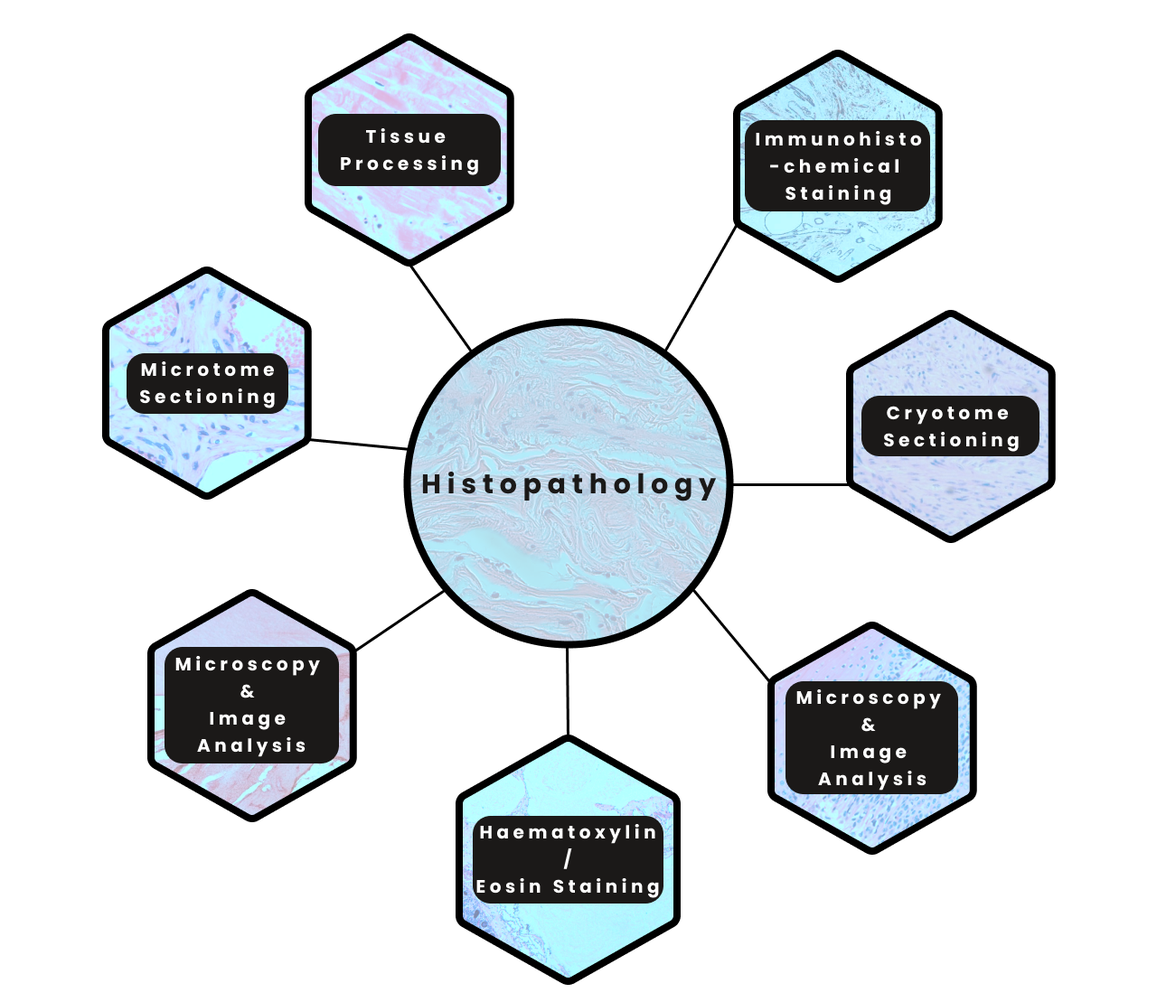
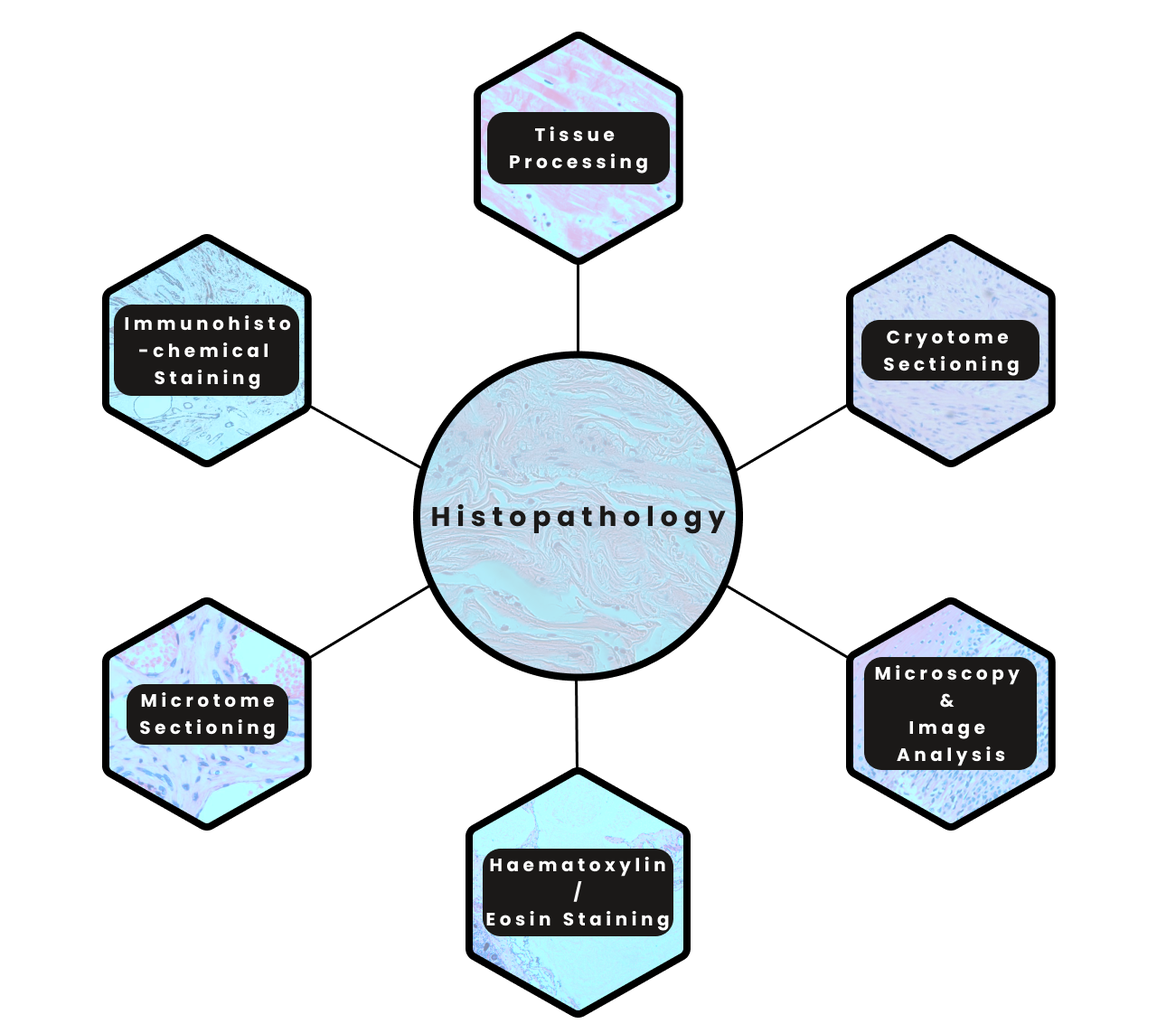
I have done all changes

diff --git a/src/components/services/service-details/bio-fluids-details-area.jsx b/src/components/services/service-details/bio-fluids-details-area.jsx
@@ -27,19 +27,17 @@ const BiofluidsDetailsArea = () => {
                 <p>
                   <b>2.Serum and Plasma </b>
                   Discover a vast repository of valuable biological resources at our state-of-the-art biobank, where a comprehensive collection of serum and plasma biosamples awaits researchers and scientists. Our biobank houses an extensive range of meticulously catalogued serum and plasma samples, sourced ethically and maintained under stringent quality controls.
-
-                  Researchers from various fields can access this treasure trove of biosamples, each representing a snapshot of human health and physiology. From healthy individuals to diverse disease conditions, our biobank &apos;s serum and plasma samples offer insights into biomarker discovery, disease progression, and therapeutic intervention.
-
-                  Our commitment to scientific advancement is evident in the careful curation of biosamples, ensuring accurate annotation of relevant clinical data. Whether investigating cardiovascular disorders, infectious diseases, oncology, or beyond, our biobank serves as a reliable resource for cutting-edge research endeavours. Accelerate your research with confidence, as our biobank stands ready to empower breakthroughs through the availability of high-quality serum and plasma biosamples.
-
                 </p>
-
+                <p>Researchers from various fields can access this treasure trove of biosamples, each representing a snapshot of human health and physiology. From healthy individuals to diverse disease conditions, our biobank &apos;s serum and plasma samples offer insights into biomarker discovery, disease progression, and therapeutic intervention.</p>
+                <p>Our commitment to scientific advancement is evident in the careful curation of biosamples, ensuring accurate annotation of relevant clinical data. Whether investigating cardiovascular disorders, infectious diseases, oncology, or beyond, our biobank serves as a reliable resource for cutting-edge research endeavours. Accelerate your research with confidence, as our biobank stands ready to empower breakthroughs through the availability of high-quality serum and plasma biosamples.</p>
+                
                 <div className="image-Contetn mb-30">
                   <img src="/assets/img/banner/bio-fluids-02.jpg" style={{ width: '100%' }} alt="bio banner" />
                 </div>
 
                 <p>
-                  <b>3.Buffy Coat Samples </b> Obtain human buffy Buffy Coat Samples for research from Diseased and healthy patients.
+                  <b>3.Buffy Coat Samples </b> 
+                  Obtain human buffy Buffy Coat Samples for research from Diseased and healthy patients.
                   Easy, streamlined procurement of depot and prospectively collected buffy coats
                   Through CBRS researchers have access to a global network of providers and patients for stored and prospectively collected buffy coats, with and without matched sets. Our extensive provider network provides access to a large inventory of criterion-specific buffy coats from both Diseased and healthy patients.
                   Our network also enables large-scale, prospective collections of high-quality matched sample sets including buffy coats. Each matched specimen set is supplied with the patient&apos;s baseline clinical data and de-identified pathology information.
@@ -47,12 +45,11 @@ const BiofluidsDetailsArea = () => {
 
                 <p>
                   <b>4.Swab Samples </b>
-                  Embark on groundbreaking research with unparalleled access to a diverse array of swab biosamples, meticulously preserved and readily available within our advanced biobank. These swab biosamples, carefully collected and stored under optimal conditions, provide an invaluable resource for researchers and scientists delving into a multitude of fields.
-                  CBRS houses an expansive collection of swab samples, ranging from nasopharyngeal and oral swabs to skin and microbial samples. Each swab specimen is a potential window into the intricate world of human health, genetics, and microbiota. With a commitment to ethical sourcing and rigorous quality control, our swab biosamples maintain their integrity and scientific value.
-                  Researchers investigating infectious diseases, microbiome dynamics, genetic variations, and more can confidently explore our biobank&apos;s swab samples. These specimens are accompanied by comprehensive clinical data, enhancing the depth and relevance of your research findings.
-                  Accelerate your discoveries with the assurance of accessing a comprehensive repository of swab biosamples at CBRS biobank. Uncover insights that could redefine healthcare, genetics, and beyond, as you leverage our collection to pave the way for transformative scientific breakthroughs.
-
+                  <p>Embark on groundbreaking research with unparalleled access to a diverse array of swab biosamples, meticulously preserved and readily available within our advanced biobank. These swab biosamples, carefully collected and stored under optimal conditions, provide an invaluable resource for researchers and scientists delving into a multitude of fields.</p>
                 </p>
+                <p>CBRS houses an expansive collection of swab samples, ranging from nasopharyngeal and oral swabs to skin and microbial samples. Each swab specimen is a potential window into the intricate world of human health, genetics, and microbiota. With a commitment to ethical sourcing and rigorous quality control, our swab biosamples maintain their integrity and scientific value.</p>
+                <p>Researchers investigating infectious diseases, microbiome dynamics, genetic variations, and more can confidently explore our biobank&apos;s swab samples. These specimens are accompanied by comprehensive clinical data, enhancing the depth and relevance of your research findings.</p>
+                <p>Accelerate your discoveries with the assurance of accessing a comprehensive repository of swab biosamples at CBRS biobank. Uncover insights that could redefine healthcare, genetics, and beyond, as you leverage our collection to pave the way for transformative scientific breakthroughs.</p>
 
                 <p>
                   <b>5.Urine sample </b> We Access fresh and stored human urine samples and data from a diverse, Countrywide patient and provider population.

diff --git a/src/components/services/service-details/tissue-microarrays-details-area.jsx b/src/components/services/service-details/tissue-microarrays-details-area.jsx
@@ -9,16 +9,57 @@ const TissueMicroarrayDetailsArea = () => {
           <div className="row">
             <div className="col-lg-12">
               <div className="tp-srv-process mb-50">
-
                 <p className="mb-20">
-                  CBRS excels in the creation and production of personalized human tissue microarrays (TMA), meticulously designed for the analysis of target expression and biomarkers across a spectrum of tissues, encompassing diseased, adjacent normal, and normal samples. Our adept team possesses an adept understanding of assisting you in the selection of appropriate human biospecimens from our expansive tissue repository. Alternatively, we are capable of aiding you in obtaining a unique human TMA tissue set, carefully tailored to meet the requirements of your specific project. From the inception of the TMA to the execution of both standard and customized IHC and FISH protocols, our professionals adeptly oversee the entire process.
-                  Furthermore, CBRS extends to you the privilege of accessing premium human biospecimens, accompanied by a comprehensive array of clinical outcome data. This addition substantially enhances the depth and precision of your research pursuits, facilitating significant breakthroughs.
+                  The term tissue microarray refers to the innovative practice of relocating multiple tissue sections from conventional histological kerosene blocks so that the tissues of multiple specimens can be viewed on the same slide. Tissue microarrays (TMAs) contain biomolecules such as proteins, carbohydrates, lipids, RNA, or DNA in their preserved state, providing a high-throughput platform for rapid analysis of molecular markers associated with the diagnosis/prognosis of disease or physiological states. TMAs provide a convenient and effective tool for modern molecular pathology with several advantages that include: experimental uniformity, reduction in assay volume/number of slides/workload, freshly cut slides, positive control options, compatibility with automated staining systems, and shelf life of up to one year when stored at 4 °C. TMAs can be used for various applications such as immunohistochemistry kerosene (IHC-P), in situ hybridization (ISH or FISH when using fluorochrome labelled probes), mRNA or miRNA ISH, TUNEL assay, histochemical staining and nucleic acid extraction. Novus Biologicals offers TMAs for normal human, rat, mouse, and primate/monkey tissues, and human TMAs are also available for various cancers, including malignant or metastatic cancers and cancer/normal adjacent tissue. For complete tissue details, H&E-stained images, citations in publications, product reviews, and related products, please refer to the individual online datasheets for the listed products.
                 </p>
-
+                <p>CBRS has expertise in the design & manufacture of custom human tissue microarrays (TMA) for analysis of target and biomarker expression in diseased, adjacent normal and normal tissues. Our team can help you select an appropriate human biospecimen from the list of available tissues or procure a unique human TMA tissue set for your project, fabricate the TMA, and implement various standard and custom IHC and FISH protocols. We can also provide access to high-quality human biospecimens with clinical outcome data.</p>
               </div>
             </div>
           </div>
-
+          <div className="list-of-data mt-50-cs">
+            <div className="inner-data-lsit">
+              <div className="row">
+                <div className="col-12 col-md-4">
+                  <h6>Cancer TMA</h6>
+                  <ul className="lsitof-data">
+                    <li>• Breast</li>
+                    <li>• Colon and Rectum</li>
+                    <li>• Lung</li>
+                    <li>• Stomach</li>
+                    <li>• Head and Neck</li>
+                    <li>• Kidney</li>
+                    <li>• Thyroid</li>
+                    <li>• Melanoma</li>
+                    <li>• Ovary</li>
+                    <li>• Prostate</li>
+                    <li>• Lymphoma</li>
+                    <li>• Bladder</li>
+                    <li>• Brain</li>
+                  </ul>
+                </div>
+                <div className="col-12 col-md-4">
+                  <h6>Custom TMA features</h6>
+                  <ul className="lsitof-data">
+                    <li>• Client - and study-specific human tumor tissue selection</li>
+                    <li>• Inclusion of all desired and appropriate controls</li>
+                    <li>• Extensive clinical history information, including clinical outcome data</li>
+                    <li>• Custom preparation of frozen tissue TMA (OCT human tissues)</li>
+                  </ul>
+                </div>
+                <div className="col-12 col-md-4">
+                  <h6>General TMA Specifications</h6>
+                  <ul className="lsitof-data">
+                    <li>• FFPE human tissues</li>
+                    <li>• Tissue cores 1 - 2 mm</li>
+                    <li>• Multiple cores per case</li>
+                    <li>• TMA map</li>
+                    <li>• TMA tissue slides</li>
+                    <li>• H&E slides/images</li>
+                  </ul>
+                </div>
+              </div>
+            </div>
+          </div>
         </div>
       </section>
     </>

diff --git a/src/components/services/service-details/stem-and-immune-cells-details-area.jsx b/src/components/services/service-details/stem-and-immune-cells-details-area.jsx
@@ -17,20 +17,19 @@ const StemAndImmuneCellsDetailsArea = () => {
 
                                 <p className="mb-40">
                                     <b>Leucopaks, non-mobilized :</b>
-                                    You can access fresh and cryopreserved leukoplakias from healthy and diseased donors for research Gain access to a growing network of providers of fresh and cryopreserved leukoplakias from a huge collective donor pool and a variety of phenotypes. Choose from a list of donor characteristics such as blood type, HLA type, body mass index (BMI), gender, age, race, ethnicity, smoking (tobacco, vape, or THC), or simply select a standard leukoplakia. You also have the option to specify guidelines for comments and exclusion criteria. Each donor will be assessed for medication, lifestyle, and medical history and tested for at least HBV, HCV, and HIV, as well as serology testing, with the option to test for an expanded panel of infectious diseases.
+                                    Fresh and cryopreserved leukoplakia’s from healthy and sick donors are available for research. Access a growing network of live and cryopreserved leukoplakia’s suppliers from a vast pool of donors and a range of phenotypes.
+                                    Pick a standard leukoplakia from a list of donor traits such blood type, HLA type, body mass index (BMI), gender, age, race, and ethnicity. You can also select a donor based on their blood type, smoking habits (tobacco, e-cigarettes, or THC), or your blood type.
+                                    We can also define the conditions for comments and the exclusion standards. Each donor will undergo a medical history check, medication review, and serology testing in addition to testing for at least HBV, HCV, and HIV. There will also be an option to test for a wider range of infectious illnesses.
                                 </p>
 
                                 <p>
                                     <b>Mobilized leucopaks :</b>
-                                    You can access fresh and cryopreserved mobilized leukopaks from healthy and diseased donors for research.
-                                    Gain access to a growing network of providers for fresh and cryopreserved mobilized leukopaks from a large collective donor pool and a variety of phenotypes. Depending on the specific mobilization protocol, healthy donors can be mobilized daily for one to five days, followed by a single collection of mononuclear cells — plus an option for a second-day collection to maximize total cell yield from a single donor. Choose from a list of donor attributes including blood type, HLA type, body mass index (BMI), gender, age, race, ethnicity, and smoking status (tobacco, vape, or THC).
+                                    Fresh and cryopreserved leukoplakias from healthy and sick donors are available for research. Access a growing network of live and cryopreserved leukoplakias suppliers from a vast pool of donors and a range of phenotypes. CBRS  Pick a standard leukoplakia from a list of donor traits such as blood type, HLA type, body mass index (BMI), gender, age, race, and ethnicity. You can also select a donor based on their blood type, smoking habits (tobacco, e-cigarettes, or THC), or blood type. You can also define the conditions for comments and the exclusion standards. Each donor will undergo a medical history check, medication review, serology testing, and testing for at least HBV, HCV, and HIV. There will also be an option to test for a wider range of infectious illnesses.
                                 </p>
 
                                 <p>
                                     <b>Bone marrow whole aspirate :</b>
-                                    A better option for obtaining healthy bone marrow whole aspirate we know that the success of your research may depend on procuring bone marrow from a defined donor profile that provides the best cell phenotype for your application.
-                                    CBRS helps you do this by providing access to our network of donor collection centers in multiple geographic locations with an overall large and diverse healthy donor pool.
-                                    Choose from a list of donor characteristics such as blood type, HLA type, body mass index (BMI), gender, age, race, ethnicity, and smoking (tobacco, vape, or THC). Each donor is screened for medications, lifestyle, and medical history, and tested for HBV, HCV, and HIV at a minimum, as well as serologically tested.
+                                    A better choice for acquiring healthy bone marrow whole aspirate We are aware that obtaining bone marrow from a specific donor profile that offers the optimal cell phenotypic for your application may be essential to the success of your research. By giving you access to our network of donor collection sites across numerous geographic locations with a generally sizable and diverse healthy donor pool, CBRS assists you in doing this. A list of donor traits is available, including blood type, HLA type, body mass index (BMI), gender, age, race, ethnicity, and smoking habits (tobacco, e-cigarettes, or THC). Each donor undergoes a series of tests, including serological, HBV, HCV, and HIV testing, as well as checks for drugs, lifestyle factors, and medical history.
                                 </p>
 
                                 <p>

diff --git a/src/components/services/service-details/tissue-details-area.jsx b/src/components/services/service-details/tissue-details-area.jsx
@@ -32,16 +32,7 @@ const TissueDetailsArea = () => {
 
                                 <p>
                                     <b>Formalin-Fixed Paraffin-Embedded (FFPE) Tissue :</b>
-                                    Access a global repository of FFPE human tissues from Diseased and healthy patients.
-                                    Large, diverse repository of FFPE tissue samples our extensive provider network gives you access to high-quality FFPE tissue blocks from hundreds of repositories around the world, reflecting the sample and patient diversity that modern medical research requires.
-
-                                    Throughout our network, FFPE tissue samples are collected under IRB-approved protocols, using processes to ensure consistency and quality. All samples are collected in full compliance with regulatory standards and best practice guidelines.
-                                    Explore our inventory of archived FFPE blocks released for research through consent waiver. These tissue samples are highly versatile and support research in areas such as oncology, hematology, and immunology— - especially for replication, validation, and immunohisto chemical (IHC) testing. Whether you are conducting academic research, drug discovery, or diagnostic development, we can provide you with the appropriate FFPE blocks.
-                                </p>
-
-                                <p>
-                                    <b>Tissue Microarrays :</b>
-                                    Large, diverse inventory of microarray tissue samples access a global repository of TMA samples from Diseased and healthy patients. CBRS&apos;s extensive global network provides access to high-quality TMAs from hundreds of providers and repositories around the world, reflecting the diversity of samples and patients needed in today’s cancer research. Across our network, TMA samples are collected under IRB-approved protocols with processes that ensure consistency and quality. All samples are collected in full compliance with regulatory standards and best practice guidelines.
+                                    The access to a global repository of FFPE tissue from diseased and healthy patients. (Donor) A large, diversified repository of FFPE tissue samples from our extensive provider network gives you access to high-quality FFPE tissue blocks from hundreds of repositories worldwide, reflecting the sample and patient diversity that modern medical research requires. Throughout our network, FFPE tissue samples are collected under IRB-approved protocols, using processes to ensure consistency and quality. All samples are collected in full compliance with regulatory standards and best practice guidelines. Check out our inventory of archived FFPE blocks that have been released for research with a consent form These tissue samples are highly versatile and support research in areas such as oncology, hematology, and immunology— - especially for replication, validation, and immune histochemical (IHC) testing.
                                 </p>
 
                             </div>

diff --git a/src/components/services/service-details/terms-conditions-details-area.jsx b/src/components/services/service-details/terms-conditions-details-area.jsx
@@ -7,10 +7,6 @@ const TermsConditionsDetailsArea = () => {
         <div class="translations-content-container">
           <div class="container">
             <div class="tab-content translations-content-item en visible" id="en">
-              <h3>Terms and Conditions</h3>
-              <p>Last updated: August 30, 2023</p>
-              <p>Please read these terms and conditions carefully before using Our Service.</p>
-              <h3>Interpretation and Definitions</h3>
               <h2>Interpretation</h2>
               <p>
                 The words of which the initial letter is capitalized have meanings defined under the following conditions. The following definitions shall have the same meaning regardless of whether they appear in singular or in
@@ -42,21 +38,13 @@ const TermsConditionsDetailsArea = () => {
                 </li>
                 <li>
                   <p>
-                    <strong>Terms and Conditions</strong> (also referred as &quot;Terms&quot;) mean these Terms and Conditions that form the entire agreement between You and the Company regarding the use of the Service. This
-                    Terms and Conditions agreement has been created with the help of the
-                    <a href="https://www.freeprivacypolicy.com/free-terms-and-conditions-generator/" rel="noreferrer">Free Terms and Conditions Generator</a>.
-                  </p>
-                </li>
-                <li>
-                  <p>
-                    <strong>Third-party Social Media Service</strong> means any services or content (including data, information, samples or services) provided by a third-party that may be displayed, included or made
-                    available by the Service.
+                    <strong>Terms and Conditions</strong> (also referred as &quot;Terms&quot;) mean these Terms and Conditions that form the entire agreement between You and the Company regarding the use of the Service.
                   </p>
                 </li>
                 <li>
                   <p>
                     <strong>Website</strong> refers to Clinical Bio-Samples and Research Services (CBRS), accessible from
-                    <a href="https://www.clinicalbiosamples.com/" rel="external nofollow noopener">https://www.clinicalbiosamples.com/</a>
+                    <a href="https://www.clinicalbiosamples.com/" rel="external nofollow noopener"> https://www.clinicalbiosamples.com/</a>
                   </p>
                 </li>
                 <li>

diff --git a/src/components/services/service-details/storage-details-area.jsx b/src/components/services/service-details/storage-details-area.jsx
@@ -138,7 +138,7 @@ const Storage02DetailsArea = () => {
                 <h4 className="tp-srv-stap__title mb-25" style={{textTransform: "uppercase"}}>We provide perfect temperatures of storage environments as</h4>
                 <p>There are several aspects to consider when storing samples, such as sample traceability, laboratory equipment, and storage temperature. We discuss the different storage temperatures, short- and long-term storage of samples, which lab equipment is useful at which temperatures, and which vessel sizes to consider.</p>
                 <h4 className="tp-srv-stap__title mb-25">VARIOUS STORAGE TEMPERATURES</h4>
-                <p>Based on how long the sample needs to be stored and what kind of sample you are keeping, it is essential to know at which temperature the sample will best be preserved. Samples can be stored at ambient temperature (+20°C), in the refrigerator (+4°C), in the freezer (-20°C), in the ultra-low freezer (-80°C), or in cryo tanks (-190°C and lower). Most long-term storage happens in the ultra-low freezer or cryo tank. The other options are used for short-term storage. Exceptions can be made when, for example, tissue is preserved in a fixative solution like paraffin wax.</p>
+                <p>Based on how long the sample needs to be stored and what kind of sample you are keeping, it is essential to know at which temperature the sample will best be preserved. The Whole blood samples are stored at ambient temperature in the freezer (-20°C), in the ultra-low freezer (-80°C), and in cryo tanks-Liquid Nitrogen (-190°C and below). Most long-term storage happens in the ultra-low freezer or cryo tank. The other options are used for short-term storage. Exceptions can be made when, for example, tissue is preserved in a fixative solution like paraffin wax.</p>
                 <p>Depending on the sample, it can be stored at ambient temperature (+20°C), in the refrigerator (+4°C), in the freezer (-20°C), in the ultra-low freezer (-80°C), or in cryo tanks (-190°C and below).</p>
                 <div className="mt-30">
                   <img src="/assets/img/services/rephrase.png" alt={'laboratory image'} width={'100%'} />

diff --git a/src/components/home/home/service-area.jsx b/src/components/home/home/service-area.jsx
@@ -35,11 +35,12 @@ const setting = {
 const slider_content = [
   {
     id: 1,
-    color: "",
-    link: "biospecimens",
-    icon: "flaticon-hemoglobin-test-meter",
-    title: "Biospecimen",
-    des: "Biospecimens are essential in a wide range of scientific fields, including pathology, drug development, genomics, proteomics, and personalized medicine.",
+    color: "green-icon",
+    link: "genomics",
+    btn_color: "green-hexa",
+    icon: "flaticon-biochemistry",
+    title: "Genomics",
+    des: "The study of genomics is the study of whole genomes of organisms and incorporates elements from genetics. Genomics uses recombinant DNA, DNA sequencing methods.",
   },
   {
     id: 2,
@@ -60,13 +61,13 @@ const slider_content = [
   },
   {
     id: 4,
-    color: "green-icon",
-    link: "genomics",
-    btn_color: "green-hexa",
-    icon: "flaticon-biochemistry",
-    title: "Genomics",
-    des: "The study of genomics is the study of whole genomes of organisms and incorporates elements from genetics. Genomics uses recombinant DNA, DNA sequencing methods.",
+    color: "",
+    link: "biospecimens",
+    icon: "flaticon-hemoglobin-test-meter",
+    title: "Biospecimen",
+    des: "Biospecimens are essential in a wide range of scientific fields, including pathology, drug development, genomics, proteomics, and personalized medicine.",
   },
+  
   {
     id: 5,
     color: "sky-icon",
@@ -108,7 +109,7 @@ const ServiceArea = () => {
         style={{ backgroundImage: `url(/assets/img/shape/shape-bg-01.png)` }}
       >
         <div className="container">
-          <div className="row mb-95">
+          {/* <div className="row mb-95">
             <div className="col-lg-12">
               <div className="search-form">
                 <form action="#">
@@ -120,7 +121,7 @@ const ServiceArea = () => {
                 </form>
               </div>
             </div>
-          </div>
+          </div> */}
           <div className="row align-items-center">
             <div className="col-lg-8 col-md-8 col-12">
               <div className="tp-section">

diff --git a/src/components/services/service-details/privacy-policy-details-area.jsx b/src/components/services/service-details/privacy-policy-details-area.jsx
@@ -7,16 +7,12 @@ const PrivacyPolicyDetailsArea = () => {
         <div class="translations-content-container">
           <div class="container">
             <div class="tab-content translations-content-item en visible" id="en">
-              <h3>Privacy Policy</h3>
-              <p>Last updated: August 30, 2023</p>
               <p>
                 This Privacy Policy describes Our policies and procedures on the collection, use and disclosure of Your information when You use the Service and tells You about Your privacy rights and how the law protects You.
               </p>
               <p>
-                We use Your Personal data to provide and improve the Service. By using the Service, You agree to the collection and use of information in accordance with this Privacy Policy. This Privacy Policy has been created
-                with the help of the <a href="https://www.freeprivacypolicy.com/free-privacy-policy-generator/" rel="noreferrer">Free Privacy Policy Generator</a>.
+                We use Your Personal data to provide and improve the Service. By using the Service, You agree to the collection and use of information in accordance with this Privacy Policy. 
               </p>
-              <h3>Interpretation and Definitions</h3>
               <h2>Interpretation</h2>
               <p>
                 The words of which the initial letter is capitalized have meanings defined under the following conditions. The following definitions shall have the same meaning regardless of whether they appear in singular or in

diff --git a/src/common/social-links.jsx b/src/common/social-links.jsx
@@ -1,28 +1,29 @@
 const social_links = [
+  // {
+  //   link: "https://www.youtube.com/",
+  //   target: "_blank",
+  //   icon: "fab fa-youtube",
+  //   color: "tp-f-youtube",
+  // },
   {
-    link: "https://www.youtube.com/",
-    target: "_blank",
-    icon: "fab fa-youtube",
-    color: "tp-f-youtube",
-  },
-  {
-    link: "http://twitter.com",
+    link: "https://twitter.com/Sutapa087",
     target: "_blank",
     icon: "fab fa-twitter",
     color: "tp-f-twitter",
   },
   {
-    link: "http://facebook.com",
+    link: "https://www.linkedin.com/in/clinical-biosamples-and-research-services/",
     target: "_blank",
-    icon: "fab fa-facebook-f",
+    icon: "fab fa-linkedin-in",
+    // <i class="fab fa-linkedin-in"></i>
     color: "tp-f-fb",
   },
-  {
-    link: "https://www.skype.com/en/",
-    target: "_blank",
-    icon: "fab fa-skype",
-    color: "tp-f-skype",
-  },
+  // {
+  //   link: "https://www.skype.com/en/",
+  //   target: "_blank",
+  //   icon: "fab fa-skype",
+  //   color: "tp-f-skype",
+  // },
 ];
 
 const SocialLinks = () => {

diff --git a/src/layout/footer/footer.jsx b/src/layout/footer/footer.jsx
@@ -23,12 +23,12 @@ const footer_content = {
       title: "Enquiry",
       cls: "footer-col-3",
       links: [
-        { name: "Connect to collaborate", link: "/contact" },
-        { name: "Connect to enquire", link: "/contact" },
+        // { name: "Connect to collaborate", link: "/contact" },
+        // { name: "Connect to enquire", link: "/contact" },
         { name: "Collaboration query", link: "collaboration-query" },
         { name: "Enquiry on inventory", link: "/contact" },
         { name: "Connect to experts", link: "/contact" },
-        { name: "Customization of services", link: "#" },
+        { name: "Customization of services", link: "/contact" },
 
       ],
     },
@@ -39,7 +39,7 @@ const footer_content = {
       links: [
         { name: "About Us", link: "/about" },
         { name: "Contact us", link: "/contact" },
-        { name: "Email us", link: "#" },
+        { name: "Email us", link: "mailto:sales@clinicalbiosamples.com" },
 
       ],
     },

diff --git a/src/components/services/service-details/genomics-details-area.jsx b/src/components/services/service-details/genomics-details-area.jsx
@@ -15,7 +15,7 @@ const GenomicsDetailsArea = () => {
                   Genomics
                 </h4>
                 <p className="mb-20">
-                  Our genomics biobank repository  offers a wide range of services across categories, providing convenient access to high-quality genetic materials for researchers in industries such as pharmaceutical, biotechnology and research laboratories. Our archive supports these industries as follows. 
+                  Our genomics biobank repository  offers a wide range of services across categories, providing convenient access to high-quality genetic materials for researchers in industries such as pharmaceutical, biotechnology and research laboratories. 
                 </p>
               </div>
             </div>

diff --git a/src/data/histopathology-page-data.js b/src/data/histopathology-page-data.js
@@ -56,11 +56,6 @@ const ServicesPageData = {
       ServicesTitle: '6. Microscopy and Image Analysis',
       ServicesDescription : 'Our histopathology services include advanced microscopy capabilities coupled with image analysis tools. This combination allows for detailed examination, quantification, and interpretation of tissue features and markers.'
     },
-    {
-      id: 7,
-      ServicesTitle: '7. Microscopy and Image Analysis',
-      ServicesDescription : 'Our histopathology services include advanced microscopy capabilities coupled with image analysis tools. This combination allows for detailed examination, quantification, and interpretation of tissue features and markers.'
-    }
   ],
   proteomics : [
     {
